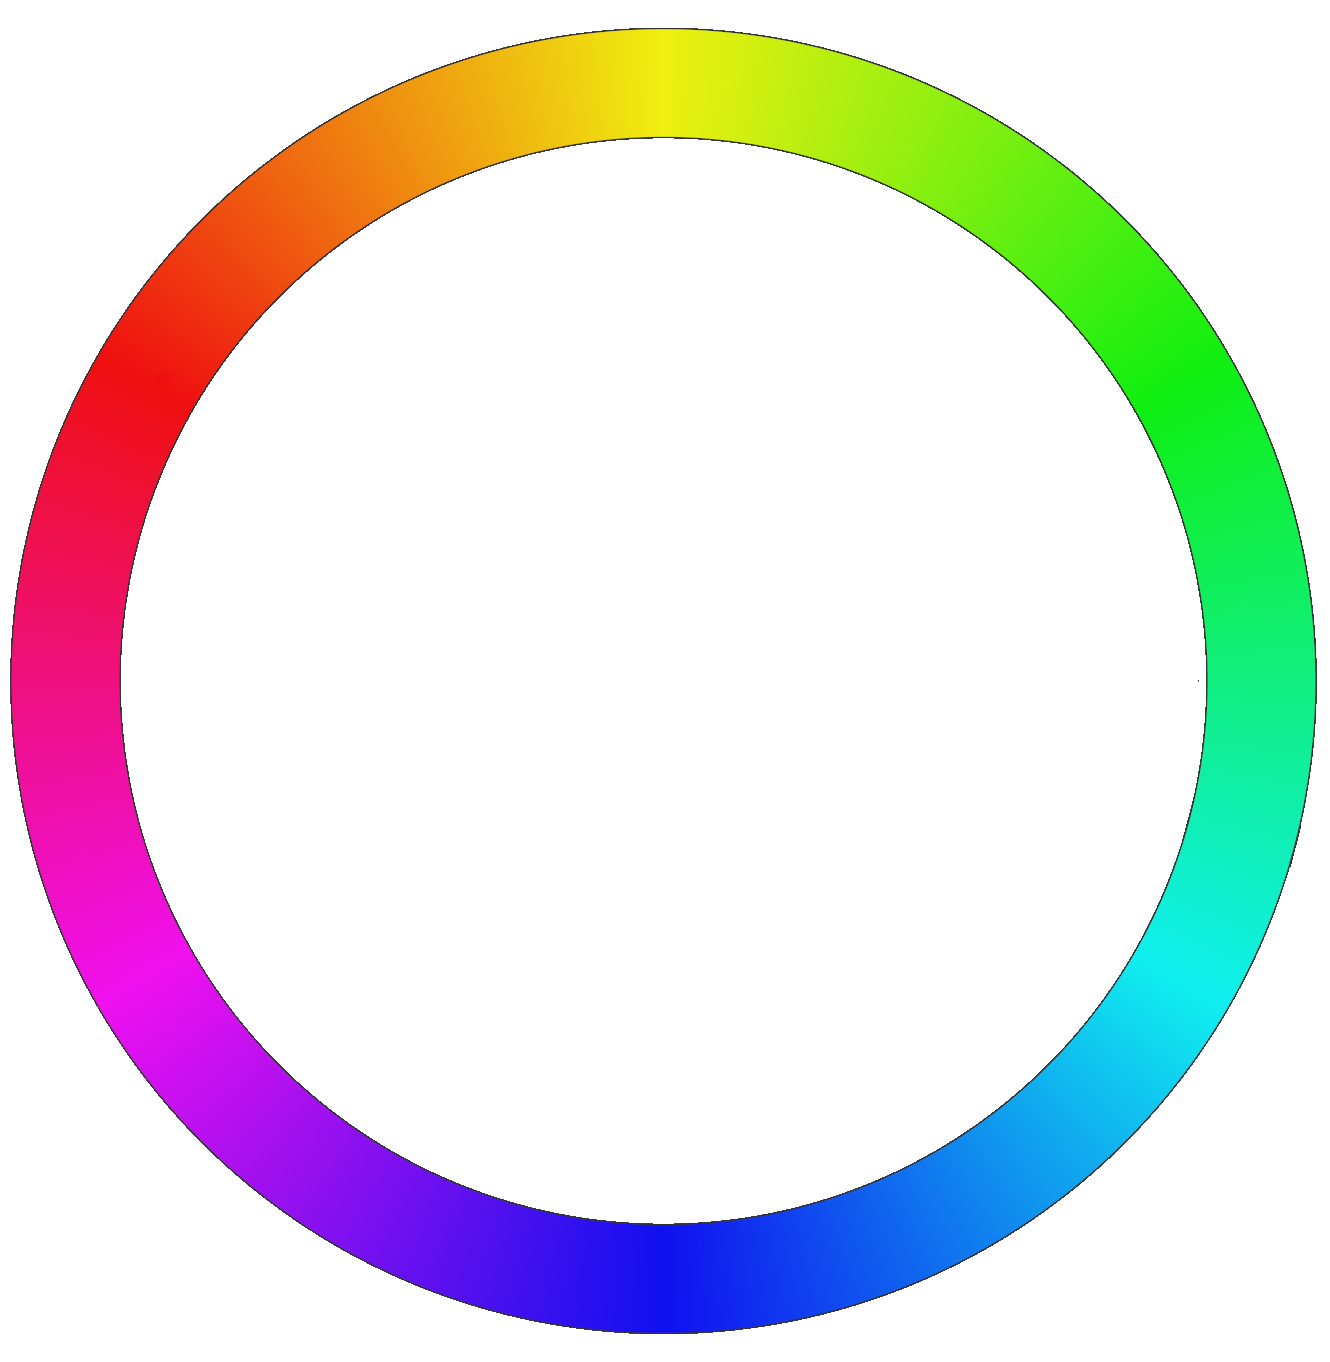
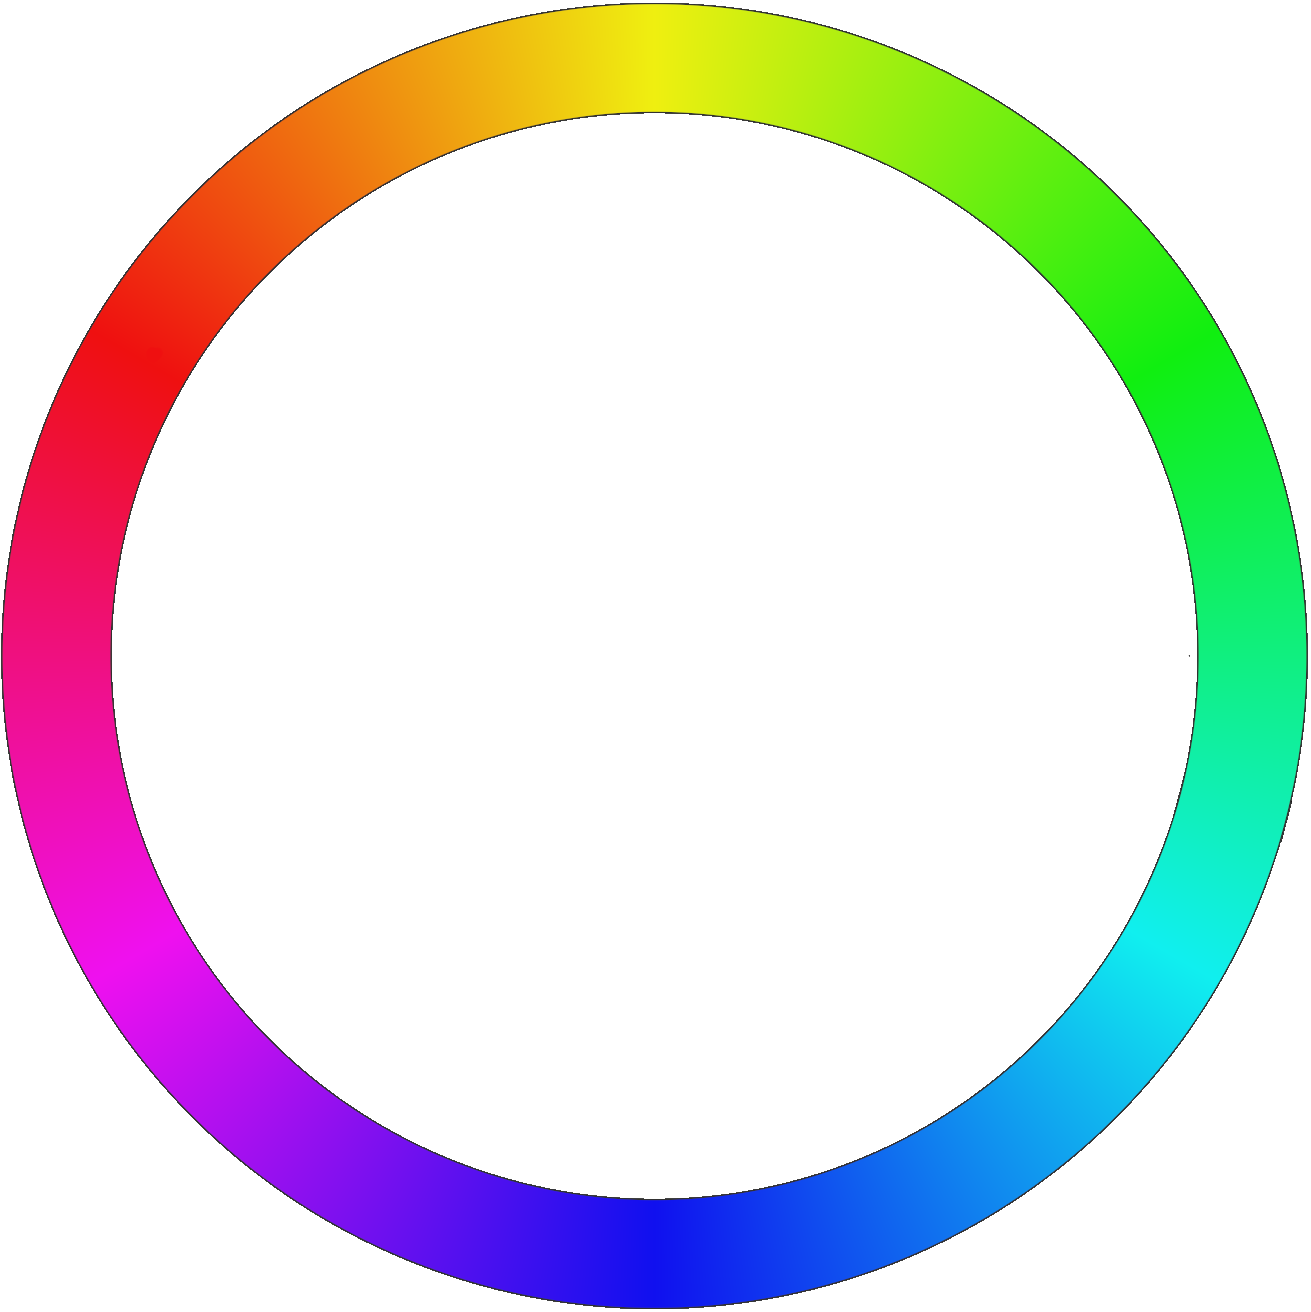
add color picker

diff --git a/Components/Canvas.js b/Components/Canvas.js
@@ -1,6 +1,12 @@
-import { useEffect } from "react";
+import { useEffect, useRef } from "react";
 
-export default function Canvas({ canvasRef, image, setDrawingComplete, reset, maskedImage, maskMode, enableMask, invertMask }) {
+export default function Canvas({ canvasRef, image, setDrawingComplete, reset, maskedImage,
+    maskMode, enableMask, invertMask,
+    setSelectedColor
+}) {
+
+    const isSelectingRef = useRef(false);
+
     useEffect(() => {
         // if (maskMode) return
         //TODO: add a filter canvas instead?, so only need to draw base image once
@@ -26,7 +32,51 @@ export default function Canvas({ canvasRef, image, setDrawingComplete, reset, ma
         }
     }, [image, reset, maskMode, maskedImage, enableMask, invertMask]);
 
-    return (<canvas ref={canvasRef} className="max-w-full h-auto" />);
+
+    const startSelecting = (e) => {
+        // if (e.button === 2) {
+            isSelectingRef.current = true;
+        // }
+        selectColor(e);
+    };
+
+    const stopSelecting = (e) => {
+        isSelectingRef.current = false;
+    };
+
+    const selectColor = (e) => {
+        const isSelecting = isSelectingRef.current;
+        if ((!isSelecting)) return;
+
+        const canvas = canvasRef.current;
+        const ctx = canvas.getContext('2d');
+        const rect = canvas.getBoundingClientRect();
+        const x = e.clientX - rect.left;
+        const y = e.clientY - rect.top;
+        const color = ctx.getImageData(x, y, 1, 1).data;
+        const [r, g, b] = color.slice(0, 3);
+        setSelectedColor([r, g, b]);
+    }
+
+    useEffect(() => {
+        if (!maskMode) {
+            const canvas = canvasRef.current;
+            canvas.addEventListener('mousedown', startSelecting);
+            canvas.addEventListener('mouseup', stopSelecting);
+            canvas.addEventListener('mouseout', stopSelecting);
+            canvas.addEventListener('mousemove', selectColor);
+            canvas.addEventListener('contextmenu', (e) => e.preventDefault());
+            return () => {
+                canvas.removeEventListener('mousedown', startSelecting);
+                canvas.removeEventListener('mouseup', startSelecting);
+                canvas.removeEventListener('mouseout', startSelecting);
+                canvas.removeEventListener('mousemove', selectColor);
+                canvas.removeEventListener('contextMenu', (e) => e.preventDefault());
+            };
+        }
+    }, [maskMode, canvasRef]);
+
+    return (<canvas ref={canvasRef} className="max-w-full h-auto cursor-crosshair" />);
 }
 
 export const removeTransparentPixels = (canvas) => {

diff --git a/Components/Color/picker.js b/Components/Color/picker.js
@@ -1,4 +1,4 @@
-import React, { useState, useRef, useEffect } from 'react';
+import React, { useState, useRef, useEffect, memo } from 'react';
 import color_wheel from "../../public/color_wheel.png";
 import Image from 'next/image';
 import HueShiftImage from './HueShiftImage';
@@ -6,6 +6,7 @@ import { FaRegCircle } from 'react-icons/fa';
 import { rgbToHsv } from '@/utils/color';
 import { getPositionFromHue } from '@/utils/color_picker_calculation';
 import { getPositionFromSV, withinTriangle_strict, withinCircle, getSVFromPosition, getHueFromPosition } from '../../utils/color_picker_calculation';
+import { rgbToHsl } from '../../utils/color';
 
 const defaultHueShift = 30 //by CSP
 const TriangularColorPicker = ({ size = 300, selectedColor, setSelectedColor }) => {
@@ -242,7 +243,7 @@ const HSLControl = ({ selectedColor, label, value, min, max, onChange }) => {
 }
 
 
-export const TriangularColorPickerDisplayColors = ({ hue = 30, size = 300, colors = [], colorisRGB = true }) => {
+export const TriangularColorPickerDisplayColors = memo(({ hue = 30, size = 300, colors = [], colorisRGB = true }) => {
     const center = size / 2
     const ratio = size / 300
     ///////////////////////////Cirlce///////////////////////
@@ -256,22 +257,24 @@ export const TriangularColorPickerDisplayColors = ({ hue = 30, size = 300, color
     const w = bb.y2 - bb.y1
 
     if (colorisRGB && colors) {
-        colors = colors.map(([r, g, b]) => rgbToHsv(r, g, b))
+        colors = colors.map(([r, g, b]) => rgbToHsl(r, g, b))
         colors = colors.map(([h, s, l]) => ({ h, s, l }));
     }
 
     const SVPosition = colors.map(({ s, l }) => getPositionFromSV({ s, v: l, w, bb, normalised: true }))
-    const HuePosition = colors.map(({ h }) => getPositionFromHue(h + defaultHueShift/360, radius, center, center, true))
+    const HuePosition = colors.map(({ h }) => getPositionFromHue(h + defaultHueShift / 360, radius, center, center, true))
+
+    if (colors.length > 0) hue = colors[0].h * 360
 
     return (
         <div className={`w-[${size}px] h-[${size}px] relative`}>
-            {/* <Image className='absolute' src={color_wheel} alt="color_wheel" width={size} height={size} draggable={false} style={{
+            <Image className='absolute' src={color_wheel} alt="color_wheel" width={size} height={size} draggable={false} style={{
                 userSelect: 'none',
                 WebkitUserDrag: 'none',
                 KhtmlUserDrag: 'none',
                 MozUserDrag: 'none',
                 OUserDrag: 'none',
-            }} /> */}
+            }} />
             <HueShiftImage
                 src={"https://i.imgur.com/BRVZgWi.png"}
                 width={size}
@@ -279,31 +282,21 @@ export const TriangularColorPickerDisplayColors = ({ hue = 30, size = 300, color
                 alt="color_combined"
                 hueShift={hue}
             />
-            {SVPosition.map(({ x, y }, index) => (
-                <FaRegCircle className='text-black absolute' key={index} style={{
-                    left: `${x}px`,
-                    top: `${y}px`,
-                    transform: `translate(-50%, -50%)`,
-                    mixBlendMode: 'multiply',
 
-                    stroke: 'white',
-                    strokeWidth: '10px'
-                }} />
+            {SVPosition.map((position, index) => (
+                <div key={index}>
+                    <CircleIndicator position={position} width={10} height={10} color="white" border_width={2} />
+                    <CircleIndicator position={position} width={12} height={12} color="black" />
+                </div>
             ))}
 
-            {HuePosition.map(({ x, y }, index) => (
-                <FaRegCircle className='text-black-500 absolute' key={index} style={{
-                    left: `${x}px`,
-                    top: `${y}px`,
-                    transform: `translate(-50%, -50%)`,
-                    mixBlendMode: 'multiply',
-                    stroke: 'white',
-                    strokeWidth: '10px'
-                }} />
+            {HuePosition.map((position, index) => (
+                <div key={index}>
+                    <RectIndicator position={position} width={10} height={22} color="white" border_width={2} rotation={colors[index].h * 360 + 90 + defaultHueShift} />
+                    <RectIndicator position={position} width={12} height={24} color="black" rotation={colors[index].h * 360 + 90 + defaultHueShift} />
+                </div>
             ))}
-
-
         </div>
 
     );
-};
+});

diff --git a/utils/color.js b/utils/color.js
@@ -58,6 +58,29 @@ export const rgbToHsv = (r, g, b, normalised = false) => {
     return [h, s, v];
 };
 
+export const rgbToHsl = (r, g, b, normalised = false) => {
+    if (!normalised) r /= 255; g /= 255; b /= 255;
+    const max = Math.max(r, g, b);
+    const min = Math.min(r, g, b);
+    let h, s, l = (max + min) / 2;
+
+    const d = max - min;
+    s = d === 0 ? 0 : d / (1 - Math.abs(2 * l - 1));
+
+    if (max === min) {
+        h = 0;
+    } else {
+        switch (max) {
+            case r: h = (g - b) / d + (g < b ? 6 : 0); break;
+            case g: h = (b - r) / d + 2; break;
+            case b: h = (r - g) / d + 4; break;
+        }
+        h /= 6;
+    }
+
+    return [h, s, l];
+};
+
 // Helper function to convert HSV to RGB
 export const hsvToRgb = (h, s, v) => {
     let r, g, b;

diff --git a/app/ColorAnalysis/index.js b/app/ColorAnalysis/index.js
@@ -17,6 +17,8 @@ const ColorAnalysis = () => {
     const canvasRef = useRef(null);
     const maskedCanvasRef = useRef(null);
 
+    const [selectedColor, setSelectedColor] = useState([0, 0, 0]);
+
     const [image, setImage] = useState(null);
     const [colorPalette, setColorPalette] = useState([]);
 
@@ -151,12 +153,19 @@ const ColorAnalysis = () => {
 
             <FileUpload onImageSelected={onImageSelected} />
 
+
             {/* {image && ( */}
-            <div className="mb-4 relative " >
-                <Canvas canvasRef={canvasRef} image={image} setDrawingComplete={setDrawingComplete} reset={reset}
-                    maskedImage={maskedCanvasRef.current} maskMode={maskMode} enableMask={enableMask} invertMask={invertMask}
-                />
-                <MaskedCanvas canvasRef={maskedCanvasRef} image={image} reset={maskReset} brushSize={10} maskMode={maskMode} />
+            <div className="flex flex-row gap-6 " >
+
+                <div className="mb-4 relative " >
+                    <Canvas canvasRef={canvasRef} image={image} setDrawingComplete={setDrawingComplete} reset={reset}
+                        maskedImage={maskedCanvasRef.current} maskMode={maskMode} enableMask={enableMask} invertMask={invertMask}
+                        setSelectedColor={setSelectedColor}
+                    />
+                    <MaskedCanvas canvasRef={maskedCanvasRef} image={image} reset={maskReset} brushSize={10} maskMode={maskMode} />
+                </div>
+                {<TriangularColorPickerDisplayColors colors={[selectedColor]} />}
+
             </div>
 
 
@@ -172,6 +181,7 @@ const ColorAnalysis = () => {
                 colorPalette={colorPalette}
                 onPaletteColorHover={onPaletteColorHover}
                 onPaletteColorUnHover={onPaletteColorUnHover}
+                setSelectedColor={setSelectedColor}
             />
 
             {colorPalette && <TriangularColorPickerDisplayColors colors={colorPalette} />}

diff --git a/Components/MaskedCanvas.js b/Components/MaskedCanvas.js
@@ -21,8 +21,6 @@ const MaskedCanvas = ({ canvasRef, image, reset, maskMode = true }) => {
     }, [image, reset]);
 
     const startDrawing = (e) => {
-        if (!maskMode) return
-
         if (e.button === 2) {
             isErasingRef.current = true;
         } else {
@@ -32,7 +30,6 @@ const MaskedCanvas = ({ canvasRef, image, reset, maskMode = true }) => {
     };
 
     const stopDrawing = () => {
-        if (!maskMode) return
         isDrawingRef.current = false;
         isErasingRef.current = false;
     };
@@ -40,7 +37,7 @@ const MaskedCanvas = ({ canvasRef, image, reset, maskMode = true }) => {
     const draw = (e) => {
         const isDrawing = isDrawingRef.current;
         const isErasing = isErasingRef.current;
-        if ((!isDrawing && !isErasing) || !maskMode) return;
+        if ((!isDrawing && !isErasing)) return;
 
         const canvas = canvasRef.current;
         const ctx = canvas.getContext('2d');
@@ -55,7 +52,6 @@ const MaskedCanvas = ({ canvasRef, image, reset, maskMode = true }) => {
     }
 
     const handleWheel = (e) => {
-        if (!maskMode) return
         e.preventDefault()
         const speed = 1 / 10
         setBrushSize(prevSize => Math.floor(Math.max(10, Math.min(200, prevSize - e.deltaY * speed))));
@@ -64,7 +60,6 @@ const MaskedCanvas = ({ canvasRef, image, reset, maskMode = true }) => {
     // Only trigger when maskMode, so other canvas can listen too
     useEffect(() => {
         if (maskMode) {
-            console.log('mounting :>> ',);
             const canvas = canvasRef.current;
             canvas.addEventListener('mousedown', startDrawing);
             canvas.addEventListener('mouseup', stopDrawing);
@@ -72,12 +67,9 @@ const MaskedCanvas = ({ canvasRef, image, reset, maskMode = true }) => {
             canvas.addEventListener('mousemove', draw);
             canvas.addEventListener('contextmenu', (e) => e.preventDefault());
             // Need to set to passive to false to prevent scrolling
-
             canvas.addEventListener('wheel', handleWheel, { passive: false });
 
             return () => {
-                console.log('demounting :>> ',);
-
                 canvas.removeEventListener('mousedown', startDrawing);
                 canvas.removeEventListener('mouseup', stopDrawing);
                 canvas.removeEventListener('mouseout', stopDrawing);
@@ -93,7 +85,7 @@ const MaskedCanvas = ({ canvasRef, image, reset, maskMode = true }) => {
         <>
             <canvas
                 ref={canvasRef}
-                className="max-w-full h-auto cursor-crosshair absolute top-0 left-0"
+                className={`max-w-full h-auto cursor-crosshair absolute top-0 left-0 ${!maskMode ? 'pointer-events-none' : ''}`}
                 // onMouseDown={startDrawing}
                 // onMouseUp={stopDrawing}
                 // onMouseOut={stopDrawing}

diff --git a/Components/PaletteDisplay.js b/Components/PaletteDisplay.js
@@ -1,6 +1,7 @@
 export default function PaletteDisplay({ colorPalette,
     onPaletteColorHover,
     onPaletteColorUnHover,
+    setSelectedColor
 }) {
     return (
         <>
@@ -15,6 +16,8 @@ export default function PaletteDisplay({ colorPalette,
                                 style={{ backgroundColor: `rgb(${color.join(",")})` }}
                                 onMouseEnter={() => onPaletteColorHover(color)}
                                 onMouseLeave={() => onPaletteColorUnHover()}
+                                onMouseDown={() => setSelectedColor(color)}
+                                onContextMenu={(e) => e.preventDefault()}
                             >
                                 {/* <span
                   className="text-xs font-semibold"